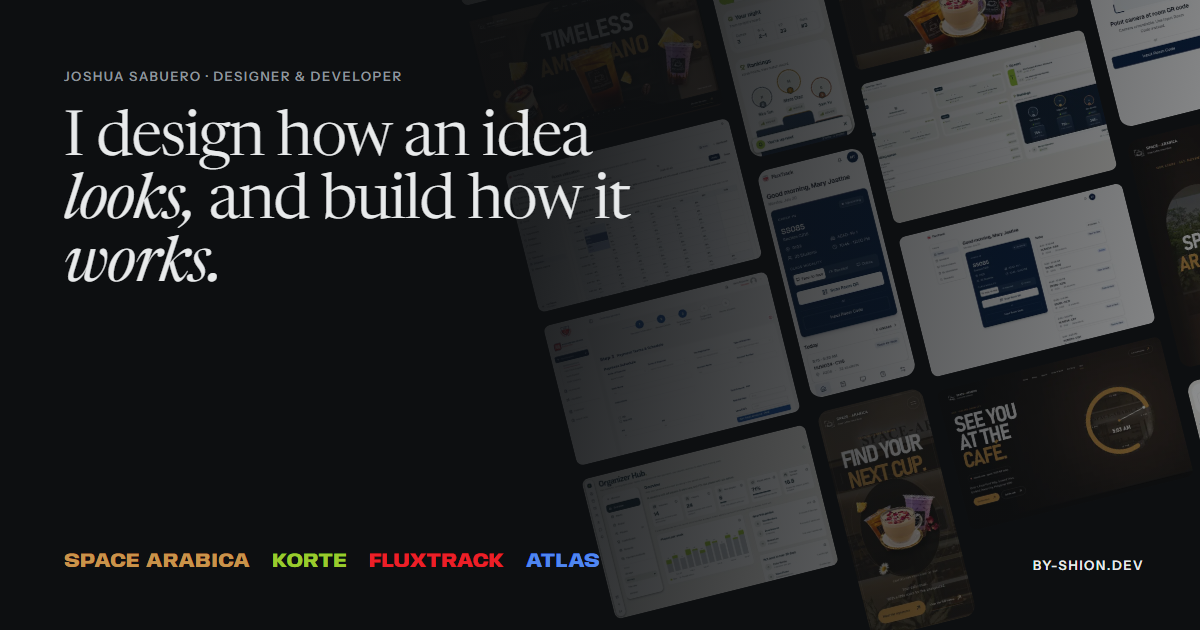
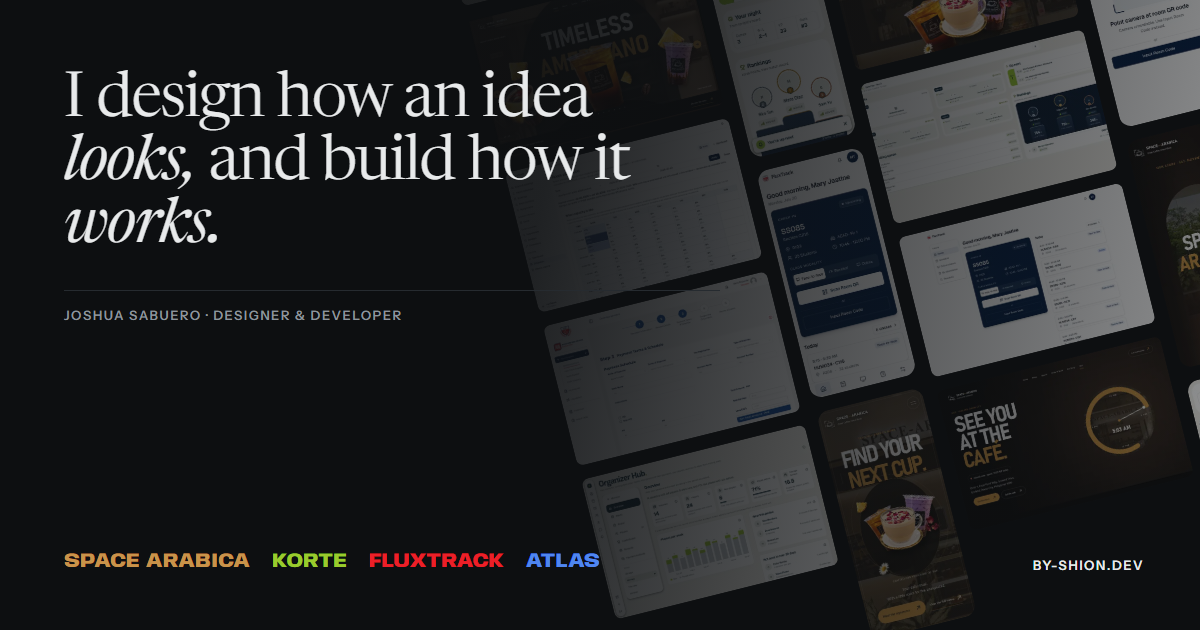
Move the name below the headline on the social preview

Changed region(s): [[0.0308, 0.0905, 0.5242, 0.4524], [0.0617, 0.4825, 0.3392, 0.5127]]

diff --git a/scripts/social-cover.html b/scripts/social-cover.html
@@ -19,8 +19,8 @@ body { width: 1200px; height: 630px; overflow: hidden; background: #0d0f11; colo
 .col:nth-child(2) { margin-top: -120px; } .col:nth-child(4) { margin-top: -60px; }
 .shade { position: absolute; inset: 0; background: linear-gradient(100deg, rgba(13,15,17,.98) 0%, rgba(13,15,17,.92) 44%, rgba(13,15,17,.45) 100%); }
 .copy { position: absolute; left: 64px; top: 70px; right: 480px; }
-.name { font: 600 13px/1 "Instrument Sans"; letter-spacing: .12em; text-transform: uppercase; color: #8d959c; }
-h1 { margin-top: 26px; font: 350 62px/1.02 "Newsreader", serif; font-variation-settings: "opsz" 72; letter-spacing: -.02em; }
+.name { margin-top: 30px; padding-top: 18px; border-top: 1px solid #262b30; font: 600 13px/1 "Instrument Sans"; letter-spacing: .12em; text-transform: uppercase; color: #8d959c; }
+h1 { font: 350 62px/1.02 "Newsreader", serif; font-variation-settings: "opsz" 72; letter-spacing: -.02em; }
 h1 em { font-style: italic; font-weight: 400; }
 .projects { position: absolute; left: 64px; bottom: 58px; display: flex; gap: 22px; font: 800 20px/1 "Anybody"; font-stretch: 112%; text-transform: uppercase; }
 .projects span:nth-child(1) { color: #c9934a; } .projects span:nth-child(2) { color: #9acb2d; } .projects span:nth-child(3) { color: #ec1f28; } .projects span:nth-child(4) { color: #4f86f0; }
@@ -36,8 +36,8 @@ h1 em { font-style: italic; font-weight: 400; }
   </div>
   <div class="shade"></div>
   <div class="copy">
-    <p class="name">Joshua Sabuero · Designer &amp; developer</p>
     <h1>I design how an idea <em>looks,</em> and build how it <em>works.</em></h1>
+    <p class="name">Joshua Sabuero · Designer &amp; developer</p>
   </div>
   <p class="projects"><span>Space Arabica</span><span>Korte</span><span>FluxTrack</span><span>Atlas</span></p>
   <p class="url">by-shion.dev</p>
